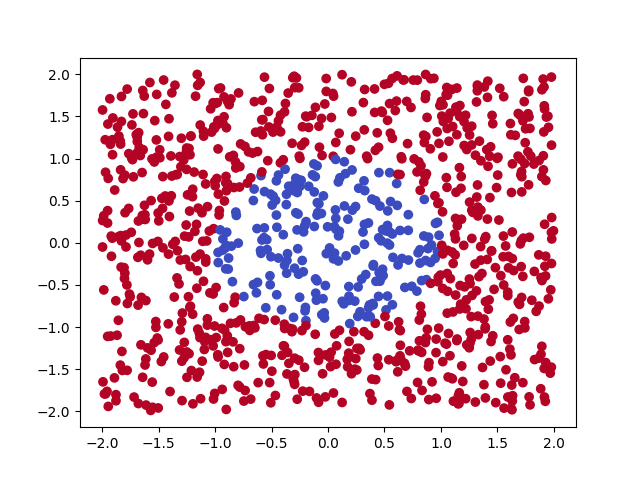
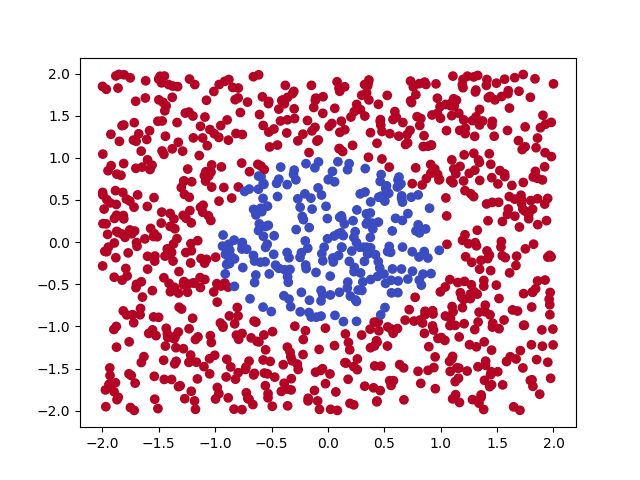
feat:任务二numpy和pytorch都已经完成

diff --git a/learn.md b/learn.md
@@ -207,7 +207,7 @@ W3 -= lr * W3.grad
 这就是多层感知机的实现真相！你对它现在的内部结构有画面感了吗？
 
 
-# 激活函数
+# 4激活函数
 ```python
 # Let's see if we can find any text or info about the uploaded image. 
 # Usually, I can just inspect the files available or read text. 
@@ -280,3 +280,110 @@ print(os.listdir('.'))
 2. **如果在输出层（最后算Loss）**：如果非要用 Sigmoid，就绝对不能配合 MSE。必须配合 **BCE（交叉熵）**。因为 BCE 公式里的对数求导后，正好能把 Sigmoid 那个等于 0 的平坦斜率给**强行分子分母抵消掉**（这就是我上一个回答里提到的数学奇迹），从而逼着犯错的模型必须改正，解决了“摆烂”问题。
 
 这次够不够直接？这两个缺陷能解释你对“Sigmoid 不好”的疑惑了吗？
+# 5激活函数相关
+欢迎回到硬核的任务三！
+
+在深度学习中，激活函数（Activation Function）绝不仅仅是给网络引入非线性那么简单。它就像是神经元之间的“信号阀门”和“滤波器”。阀门设计得好不好，直接决定了整个网络在反向传播时梯度能不能传得动、前向传播时信号会不会崩塌。
+
+如果激活函数选得不合适，会引发一连串的连锁反应。我们用大白话和底层的矩阵求导逻辑，来看看这些常见的影响是如何发生的：
+
+---
+
+### 1. 梯度消失（Gradient Vanishing）
+
+* **直观表现**：网络靠近输入层的那些权重 $W$ 的梯度几乎变成了 0，无论怎么训练，前几层的参数都像死了一样原地不动，模型根本无法收敛。
+* **是怎么发生的**：
+在反向传播中，根据**链式法则**，梯度是从最后一层倒着往前乘回去的。
+假设我们使用的是 **Sigmoid** 激活函数 $f(x) = \frac{1}{1 + e^{-x}}$。对它求导后会发现：
+
+$$f'(x) = f(x)(1 - f(x))$$
+
+
+
+因为 $f(x)$ 的输出在 $0 \sim 1$ 之间，它的导数 $f'(x)$ **最大只有 0.25**（当 $x=0$ 时）。
+> 💡 **致命的乘法效应**：
+> 每一个隐藏层都有一个激活函数。如果你有一个 5 层的网络，倒数第一层的梯度传到第一层时，中间要连续乘以 4 次激活函数的导数：
+> 
+> $$\text{梯度} \propto 0.25 \times 0.25 \times 0.25 \times 0.25 \approx 0.0039$$
+> 
+> 
+> 
+> 如果网络有 20 层，这个连乘项会直接趋近于 0。只要输入的 $x$ 稍微大一点或小一点（进入饱和区），导数直接变成 $0.0001$，梯度在回传的半路上就**凭空消失**了。
+
+
+
+---
+
+### 2. 梯度爆炸（Gradient Explosion）
+
+* **直观表现**：训练了没几轮，Loss 突然变成了 `NaN`（不是一个数），或者打印出来的梯度大到无法想象，程序直接崩溃。
+* **是怎么发生的**：
+这通常发生在隐藏层使用了像 **Tanh** 或者是没有做合理参数初始化、没有层归一化的线性网络中。
+虽然激活函数（如 ReLU）自身的导数最大只是 1，不会像 Sigmoid 那样越乘越小，但是反向传播的链式法则里不仅要乘激活函数的导数，还要乘以**权重矩阵 $W$**：
+
+$$\text{梯度} \propto W_3 \times f'(z_2) \times W_2 \times f'(z_1)$$
+
+
+
+如果你在参数初始化时没有经验（比如没有用你刚才代码里的 Kaiming 初始化），导致网络里的权重 $W$ 的初始值都略大于 1（比如 $W = 2.0$）。
+哪怕激活函数的导数 $f'(z) = 1$，经过 10 层的连乘：
+
+$$2^{10} = 1024$$
+
+
+
+如果 30 层，梯度就会扩大数亿倍！这就导致了**梯度爆炸**。
+
+---
+
+### 3. 神经元坏死 / 神经元“流产”（Dead ReLU Problem）
+
+* **直观表现**：在使用 **ReLU** 的网络中，随着训练的进行，越来越多人发现一部分神经元彻底失去了作用（输出永远是 0，导数永远是 0），不管输入什么数据，这部分网络直接废掉了。
+* **是怎么发生的**：
+我们知道 ReLU 的公式是 $f(x) = \max(0, x)$。它的导数是：
+* 当 $x > 0$ 时，导数为 $1$。
+* 当 $x \le 0$ 时，**导数死死地卡在 0**。
+
+
+> 💡 **“一脚踩死”的惨剧**：
+> 在 Mini-batch 梯度下降的过程中，如果某一个 batch 的数据特别极端，或者学习率（`lr`）设得太大，导致优化器更新完权重后，某个神经元接收到的输入 $x$ 变成了一个**很大的负数**。
+> 在下一轮前向传播时，这个负数经过 ReLU 直接输出 `0`。
+> 到了反向传播时，因为 $x < 0$，ReLU 的导数是 `0`。这意味着**没有任何梯度能流过这个神经元**！
+> 既然没有梯度流过，它的权重 $W$ 就**永远没有机会被更新**。它就变成了一个死去的神经元，占着内存却不干活。
+
+
+
+---
+
+### 4. 均值偏移 / 非零中心化（Mean Shift / Non-zero Centered）
+
+* **直观表现**：网络训练速度极慢，梯度更新时呈现“Z”字形锯齿状震荡，效率极低。
+* **是怎么发生的**：
+如果一个激活函数的输出**全部是正数**（比如 Sigmoid 输出都在 $0 \sim 1$，ReLU 输出都在 $\ge 0$），就会导致下一层神经元接收到的输入 $X$ 全是正数。
+根据全连接层的求导公式，权重 $W$ 的梯度为：
+
+$$\frac{\partial \text{Loss}}{\partial W} = X^T \cdot \delta$$
+
+
+
+因为输入 $X$ 全是正数，这就导致这一层的所有权重 $W$ 的梯度，其正负号**完全取决于后面传过来的残差 $\delta$**。
+也就是说，这一层里成百上千个 $W$，**要么全部往正方向更新，要么全部往负方向更新**。它没有办法让一部分 $W$ 变大、另一部分 $W$ 变小。如果最优解需要一部分参数变大、一部分变小，网络就只能痛苦地走“之”字形弯路。
+
+---
+
+### 🏁 行业是如何用新激活函数解决这些问题的？
+
+为了搞定上面这些祖传老毛病，AI 科学家们才发明了任务三里你看到的这些现代激活函数：
+
+1. **Leaky ReLU ($f(x) = \max(0.01x, x$)**：
+* **解决什么**：专门解决 **ReLU 神经元坏死**。
+* **怎么解决**：在 $x < 0$ 的时候不给 0，而是给一个极小的斜率（0.01）。这样哪怕神经元不幸变成了负数，依然有 `0.01` 的梯度能传过去，把这个神经元“救活”。
+
+
+2. **SiLU / Swish / GELU**：
+* **解决什么**：解决 **ReLU 零点处不可导、太死板** 以及 **均值偏移** 的问题。
+* **怎么解决**：它们在 $x < 0$ 的时候不是一条生硬的直线，而是一条**平滑的、甚至会微微翘起的曲线**。这种平滑性允许极微弱的负信号通过，并且在数学上更容易求导，实验证明它能让超过 100 层的超深网络（如 Transformer、ResNet）在反向传播时梯度流动得极度丝滑。
+
+
+
+你在写任务三时，可以通过更换激活函数（比如把 ReLU 换成 Leaky ReLU 或者是 SiLU），去观察你的 Loss 下降速度和最终的分类准确率，这能让你直观感受到这些底层数学改变带来的威力！